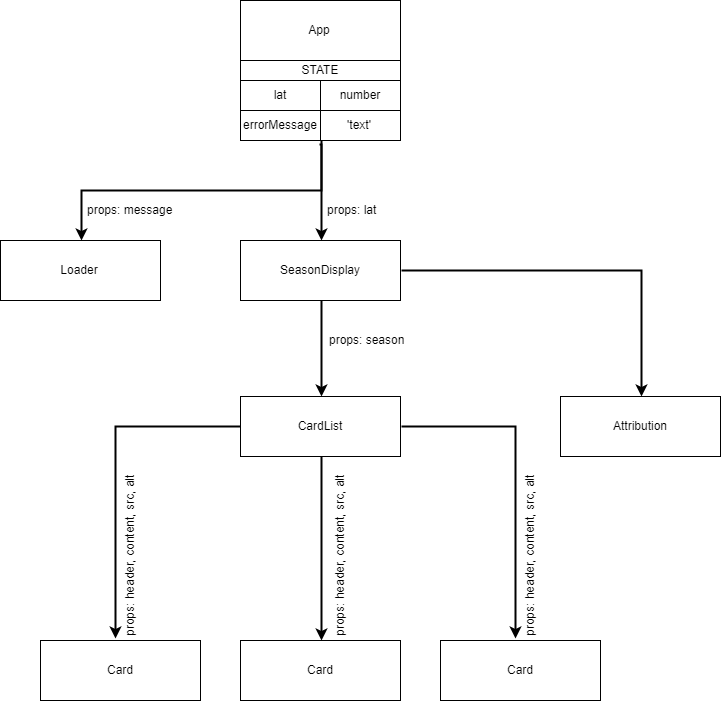
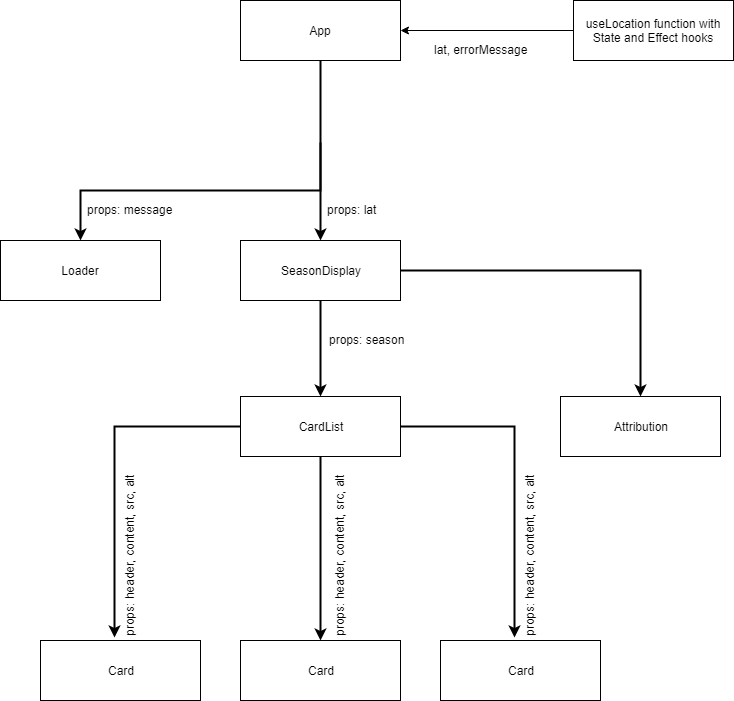
refactor from class comp to functional comp with hooks

diff --git a/public/index.html b/public/index.html
@@ -8,36 +8,13 @@
   <meta name="theme-color" content="#000000" />
   <link rel="stylesheet" href="https://cdnjs.cloudflare.com/ajax/libs/semantic-ui/2.4.1/semantic.min.css">
   <link href="https://fonts.googleapis.com/css?family=Lora|Merriweather&display=swap" rel="stylesheet">
-  <!--
-      manifest.json provides metadata used when your web app is installed on a
-      user's mobile device or desktop. See https://developers.google.com/web/fundamentals/web-app-manifest/
-    -->
   <link rel="manifest" href="%PUBLIC_URL%/manifest.json" />
-  <!--
-      Notice the use of %PUBLIC_URL% in the tags above.
-      It will be replaced with the URL of the `public` folder during the build.
-      Only files inside the `public` folder can be referenced from the HTML.
-
-      Unlike "/favicon.ico" or "favicon.ico", "%PUBLIC_URL%/favicon.ico" will
-      work correctly both with client-side routing and a non-root public URL.
-      Learn how to configure a non-root public URL by running `npm run build`.
-    -->
-  <title>React App</title>
+  <title>Seasonal activities</title>
 </head>
 
 <body>
   <noscript>You need to enable JavaScript to run this app.</noscript>
   <div id="root"></div>
-  <!--
-      This HTML file is a template.
-      If you open it directly in the browser, you will see an empty page.
-
-      You can add webfonts, meta tags, or analytics to this file.
-      The build step will place the bundled scripts into the <body> tag.
-
-      To begin the development, run `npm start` or `yarn start`.
-      To create a production bundle, use `npm run build` or `yarn build`.
-    -->
 </body>
 
 </html>

diff --git a/src/components/App.js b/src/components/App.js
@@ -1,30 +1,20 @@
 import React from 'react';
+
+import useLocation from './useLocation';
 import SeasonDisplay from './SeasonDisplay';
 import Loader from './Loader';
 
-class App extends React.Component {
-  state = {
-    lat: null,
-    errorMessage: ''
-  };
+export default() => {
+  const [lat, errorMessage] = useLocation();
 
-  componentDidMount() {
-    window.navigator.geolocation.getCurrentPosition(position => this.setState({lat: position.coords.latitude}), err => this.setState({errorMessage: err.message}));
+  let content;
+  if (errorMessage) {
+    content = <div>Error: {errorMessage}</div>;
+  } else if (lat) {
+    content = <div><SeasonDisplay lat={lat}/></div>;
+  } else {
+    content = <Loader message="Please accept location request"/>;
   }
 
-  renderContent() {
-    if (this.state.lat && !this.state.errorMessage) {
-      return <div><SeasonDisplay lat={this.state.lat}/></div>;
-    }
-    if (!this.state.lat && this.state.errorMessage) {
-      return <div>Error: {this.state.errorMessage}</div>;
-    }
-    return <Loader message="Please accept location request"/>;
-  }
-
-  render() {
-    return <div>{this.renderContent()}</div>;
-  }
-}
-
-export default App;
+  return <div>{content}</div>;
+};

diff --git a/src/components/SeasonDisplay.js b/src/components/SeasonDisplay.js
@@ -1,11 +1,13 @@
 import './SeasonDisplay.css';
+
 import React from 'react';
+
 import CardList from './CardList';
+import Attribution from './Attribution';
 import {getSeason} from '../helper.js';
 import {seasonConfig} from '../helper.js';
-import Attribution from './Attribution';
 
-const SeasonDisplay = ({lat}) => {
+export default({lat}) => {
   const season = getSeason(lat, new Date().getMonth());
   return (<div className={`${season} season-display`}>
     <h2>{`${seasonConfig[season].header}...`}</h2>
@@ -14,4 +16,3 @@ const SeasonDisplay = ({lat}) => {
     <Attribution/>
   </div>);
 };
-export default SeasonDisplay;

diff --git a/src/components/CardList.js b/src/components/CardList.js
@@ -1,12 +1,11 @@
 import React from 'react';
+
 import Card from './Card';
 import {seasonConfig} from '../helper.js';
 
-const CardList = ({season}) => {
+export default({season}) => {
   const cards = seasonConfig[season].activities.map(activity => {
     return <Card key={activity.image.split('.')[0]} header={activity.header} content={activity.content} src={`\\img\\activities\\${season}\\${activity.image}`} alt={activity.image.split('.')[0]}/>
   });
   return <div className="ui cards">{cards}</div>;
 };
-
-export default CardList;

diff --git a/src/components/Attribution.js b/src/components/Attribution.js
@@ -1,6 +1,6 @@
 import React from 'react';
 
-const Attribution = () => {
+export default() => {
   return (<div className="attribution">Icons made by&#8287;
     <a href="https://www.flaticon.com/authors/dinosoftlabs" title="DinosoftLabs">
       DinosoftLabs
@@ -13,5 +13,3 @@ const Attribution = () => {
     <a href="http://creativecommons.org/licenses/by/3.0/" title="Creative Commons BY 3.0" target="_blank" rel="noopener noreferrer">CC 3.0 BY</a>
   </div>);
 };
-
-export default Attribution;

diff --git a/src/components/useLocation.js b/src/components/useLocation.js
@@ -1,0 +1,12 @@
+import {useState, useEffect} from 'react';
+
+export default() => {
+  const [lat, setLat] = useState(null);
+  const [errorMessage, setErrorMessage] = useState('');
+
+  useEffect(() => {
+    window.navigator.geolocation.getCurrentPosition(position => setLat(position.coords.latitude), err => setErrorMessage(err.message));
+  }, []);
+
+  return [lat, errorMessage];
+};

diff --git a/src/components/Card.js b/src/components/Card.js
@@ -1,6 +1,6 @@
 import React from 'react';
 
-const Card = ({src, alt, header, content}) => {
+export default({src, alt, header, content}) => {
   return (<a className="ui card" href="/">
     <div className="image">
       <img src={src} alt={alt}/>
@@ -11,5 +11,3 @@ const Card = ({src, alt, header, content}) => {
     </div>
   </a>);
 };
-
-export default Card;

diff --git a/src/index.js b/src/index.js
@@ -1,5 +1,6 @@
 import React from 'react';
-import ReactDOM from 'react-dom';
+import {render} from 'react-dom';
+
 import App from './components/App';
 
-ReactDOM.render(<App/>, document.querySelector('#root'));
+render(<App/>, document.querySelector('#root'));

diff --git a/README.md b/README.md
@@ -1,9 +1,19 @@
 ## Seasonal activities
 
-Practicing rendering content conditionally. This app shows different activities based on what season is at the moment.
+Practicing rendering content conditionally and using hooks. This app shows different activities based on what season is at the moment.
 The challenge was to get month and hemisphere (user's location - using Geolocation API), determine season and then suggest to the user some seasonal activities.
 
 ![app](public/img/app.png)
+
+#### Install
+
+    $ git clone https://github.com/orvalho/seasons-activities
+    $ cd seasons-activities
+    $ npm install
+
+#### Start
+
+    $ npm start
 
 ### Challenges
 
@@ -16,3 +26,9 @@ The challenge was to get month and hemisphere (user's location - using Geolocati
 ### CardList & Cards
 
 ![cards](public/img/diagrams/cards.png)
+
+### Stack
+
+-   React
+-   React DOM
+-   Semantic UI
